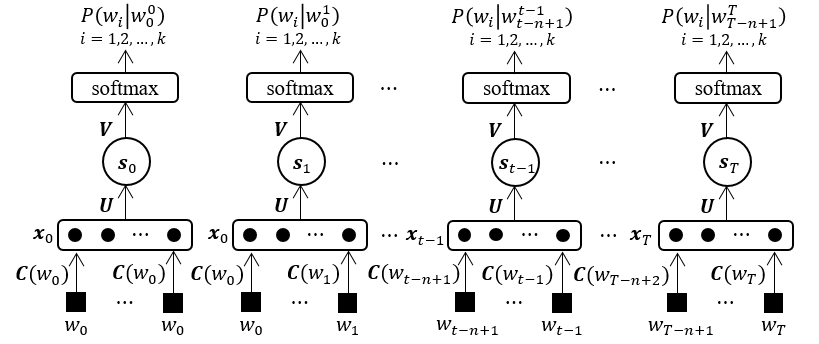
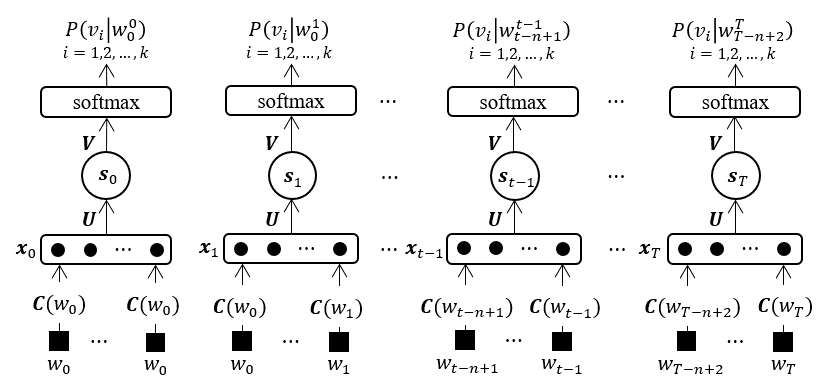
update

diff --git a/css/main.css b/css/main.css
@@ -115,3 +115,8 @@ table tr th :first-child, table tr td :first-child {
 table tr th :last-child, table tr td :last-child {
     margin: 0;
 }
+
+.MathJax_Display {
+    font-size: 18px;
+    text-align: center;
+}

diff --git a/_posts/2017-01-01-neural-network-language-models.md b/_posts/2017-01-01-neural-network-language-models.md
@@ -4,30 +4,30 @@ title: Neural network languge modeling
 abstract: Different architectures of neural network language models are decribed in this post, including feedforward neural network language models, recurrent neural network models and long short term memory ones. Variants of these nerual network language models will also be discussed, like using different activation functions, with or without direct connections between input and output layers and adopting bias terms or not. General issues about training and testing neural network language models are also included in this post.
 ---
 
-> *The source code for the neural network language models described in this post can be found [here](https://github.com/dengliangshi/pynnlms).*
+> *The source code for the neural network language models described in this post are implemented using both [python](https://github.com/dengliangshi/pynnlms) and [C++](https://github.com/dengliangshi/cnnlms).*
 
 ### 1. INTRODUCTION
-Generally, well designed language model (LM) makes a critical difference in various natural language processing (NLP) tasks, including speech recognition, machine translation, semantic extraction and etc. Language modeling, therefore, has been the research focus in NLP field all the time, and a large number of sound research results have been published for decades. N-gram based language modeling, a non-paramtric approach, is used to be state of the art, but now a paramtric approach - neural network language modeling is considered to show the best performance, and become the most commonly used language modeling technique.
+Generally, well designed language model makes a critical difference in various natural language processing (NLP) tasks, including speech recognition, machine translation, semantic extraction and etc. Language modeling (LM), therefore, has been the research focus in NLP field all the time, and a large number of sound research results have been published for decades. N-gram based language modeling, a non-paramtric approach, is used to be state of the art, but now a paramtric approach - neural network language modeling (NNLM) is considered to show the best performance, and become the most commonly used LM technique in multiple NLP tasks.
 
-Although some previous attempts, details on which are provided by [Schwenk (2007)](http://wiki.inf.ed.ac.uk/twiki/pub/CSTR/ListenSemester2_2009_10/sdarticle.pdf), have been made to apply artificial neural network into language modeling, neural network language modeling began to attract researches' attention only after [Bengio et al. (2001, 2003)](http://www.jmlr.org/papers/volume3/bengio03a/bengio03a.pdf), and neural network language models did not show prominent advantage over other language models until Mikolov investigated recurrent neural network for language modeling (Mikolov et al., [2010](http://isca-speech.org/archive/archive_papers/interspeech_2010/i10_1045.pdf), [2011](http://www.mirlab.org/conference_papers/International_Conference/ICASSP%202011/pdfs/0005528.pdf); Mikolov, [2012](http://www.fit.vutbr.cz/~imikolov/rnnlm/thesis.pdf)). After more than a decade's research, there are numerous imporvements, marginal or critical, have been proposed over NNLMs.
+Although some previous attempts, details on which are provided by [Schwenk (2007)](http://wiki.inf.ed.ac.uk/twiki/pub/CSTR/ListenSemester2_2009_10/sdarticle.pdf), had been made to introduce artificial neural network (ANN) into LM, NNLM began to attract researches' attention only after [Bengio et al. (2001, 2003)](http://www.jmlr.org/papers/volume3/bengio03a/bengio03a.pdf), and did not show prominent advantage over other techniques of NNLM until recurrent neural network (RNN) was investigated for LM (Mikolov et al., [2010](http://isca-speech.org/archive/archive_papers/interspeech_2010/i10_1045.pdf), [2011](http://www.mirlab.org/conference_papers/International_Conference/ICASSP%202011/pdfs/0005528.pdf)). After more than a decade's research, there are numerous imporvements, marginal or critical, over basic NNLM have been proposed. In this post, the basic neural network language models will be described, and the improvements will be introduced in following posts.
 
 #### 2. NEURAL NETWORK LANGUAGE MODELS, NNLMs
 The goal of statistical language models is to estimate the probability of a word sequence $w_1w_2...w_T$ in a natural language, and the probability can be represented by the production of the conditional probability of each word given all the previous ones:
 
 $$
-P(w_{1}^{T+1})\;=\;\prod^{T+1}_{t=1}P(w_t{\mid}w_{0}^{t-1})
+P(w_{1}^{T})\;=\;\prod^{T}_{t=1}P(w_t{\mid}w_{1}^{t-1})
 $$
 
-where, $w_{i}^{j}\;=\;w_iw_{i+1}\dots{w_{j-1}w_j}$, $w_0$ and $w_{T+1}$ stand for the start and end marks of word sequence. This chain rule is established on the assumption that the word in a sequence only depend on its prvious context, and it is the fundation of statistical language modeling. Nevertheless, this is not always the case in natural languages. NNLM is a kind of statistical language modeling, so it is also termed as neural probabilistic lanuage modeling or neural statistical lanuage modeling, and the objective of NNLM is to learn the conditional probability function of words. According to the adopted artificial neural network, neural network language model can be classified as: feed-forward, recurrent and LSTM neural network language models, the basic version of which will be introduced next.
+where, $w_{i}^{j}\;=\;w_iw_{i+1}\dots{w_{j-1}w_j}$. This chain rule is established on the assumption that the word in a sequence only depend on its prvious context, and forms fundation of all statistical language modeling. NNLM is a kind of statistical language modeling, so it is also termed as neural probabilistic lanuage modeling or neural statistical lanuage modeling, and the objective of NNLM is to learn the conditional probability function of words. According to the adopted artificial neural network, neural network language model can be classified as: feed-forward neural network language model (FNNLM), recurrent neural network language model (RNNLM) and long short term memory (LSTM) recurrent neural network language model (LSTM-RNNLM).
 
 #### 2.1. Feedforward Neural Network Language Model, FNNLM
-Feed-forward neural network language models (FNNLMs) aim at evaluating the conditional probabilty $P(w_t{\mid}w_{0}^{t-1})$, but, for lack of an effective representation of history context, the idea of n-gram modeling is introduced that words in a word sequence more statistically depend on the words closer to them, and only the $(n-1)$ direct predecessor words are condsidered when evaluationg the conditional probability, this is:
+As metioned above, the objective of FNNLM is to evaluate the conditional probability $P(w_t{\mid}w_{1}^{t-1})$, but FNNLM lacks of an effective way to represent history context. Hence, the idea of n-gram model is adopted in FNNLM that words in a word sequence more statistically depend on the words closer to them, and only the $n-1$ direct predecessor words are condsidered when evaluating the conditional probability, this is:
 
 $$
-P(w_t{\mid}w_{0}^{t-1})\;\approx\;P(w_t{\mid}w_{t-n+1}^{t-1})
+P(w_t{\mid}w_{1}^{t-1})\;\approx\;P(w_t{\mid}w_{t-n+1}^{t-1})
 $$
 
-The architecture of the original feedforward neural network language model (FNNLM) in [Bengio et al. (2003)](http://www.jmlr.org/papers/volume3/bengio03a/bengio03a.pdf) is showed in Figure 1. In Bengio's model, a vocabulary is pre-built from a training data set, and each word in this vocabulary is assigned with a unique index. To predict the conditional probabiltiy of word $w_t$, its direct previous words $w_{t-n+1},...,w_{t-1}$ are projected linearly into feature vectors using a shared matrix $C\in{\mathbb{R}^{k\times{m}}}$ according to their index in vocabulary, where $k$ is the size of the vocabulary and $m$ is the feature vectors' size. In fact, each row of projection maxtrix $C$ is a feature vector of a word. The input $x\in\mathbb{R}^{n_i}$ of FNNLM is formed by concatenating the feacture vectors of words $w_{t-n+1},...,w_{t-1}$, where $n_i=m\times(n-1)$ is the size of FNNLM's input layer. The feedforward neural network model can be generally repesented as:
+The architecture of the original FNNLM in [Bengio et al. (2003)](http://www.jmlr.org/papers/volume3/bengio03a/bengio03a.pdf) is showed in Figure 1, and $w_0$, $w_{T+1}$ are start and end marks of word sequence respectively. In this model, a vocabulary is pre-built from a training data set, and each word in this vocabulary is assigned with a unique index. To predict the conditional probabiltiy of word $w_t$, its direct previous words $w_{t-n+1},...,w_{t-1}$ are projected linearly into feature vectors using a shared matrix $C\in{\mathbb{R}^{k\times{m}}}$ according to their index in vocabulary, where $k$ is the size of the vocabulary and $m$ is the feature vectors' size. In fact, each row of projection maxtrix $C$ is a feature vector of a word. The input $x\in\mathbb{R}^{n_i}$ of FNNLM is formed by concatenating the feacture vectors of words $w_{t-n+1},...,w_{t-1}$, where $n_i=m\times(n-1)$ is the size of FNNLM's input layer. The feedforward neural network model can be generally repesented as:
 
 $$
 y\;=\;V\cdot{f(U\cdot{x}\;+b)}\;+\;M\cdot{x}\;+\;d
@@ -38,7 +38,7 @@ Where, $U\in\mathbb{R}^{n_h\times{n_i}}$,  $V\in\mathbb{R}^{n_o\times{n_h}}$ are
 The $i$-th element of output vector $y$ is the unnormalized coditional probability for the word with index $i$ in vocabulary. In order to guarantee all the output probailities positive and summing to 1, a softmax layer is always adopted following the output layer of feedforward nerual network:
 
 $$
-P(w_{i}{\mid}w_{0}^{t-1})\;\approx\;\frac{e^{y(w_{i},w_{t-n+1}^{t-1})}}{\sum_{j=1}^{k}e^{y(w_{j},w_{t-n+1}^{t-1})}}, i = 1, 2, ..., k
+P(w_{i}{\mid}w_{1}^{t-1})\;\approx\;\frac{e^{y(w_{i},w_{t-n+1}^{t-1})}}{\sum_{j=1}^{k}e^{y(w_{j},w_{t-n+1}^{t-1})}}, i = 1, 2, ..., k
 $$
 
 where $y(w_i,w_{t-n+1}^{t-1})\;(i\;=\; 1, 2, ...,k)$ is the $i$-th element of ouput vector $y$.
@@ -52,20 +52,34 @@ where $y(w_i,w_{t-n+1}^{t-1})\;(i\;=\; 1, 2, ...,k)$ is the $i$-th element of ou
 
 In Bengio's initial work ([Bengio et al., 2001](http://www.iro.umontreal.ca/~lisa/publications2/index.php/attachments/single/74)), two different architetures of FNNLM are proposed: direct and cycling architecture. The direct architeture model has been described above. In cycling architecture model, the input of model is the concatenation of feature vectors of both words in history context and candidate next word. For a given history context $w_{t-n+1}^{t-1}$, each word $w_{i} (i=1, 2, \dots, k)$ in vocabulary will be taken as a candidate next word, and its conditional probability is evaluated by FNNLM. The output of model is a scalar $y(w_{i},w_{t-n+1}^{t-1})$ instead of a vector which is the unnormalized conditioanal probability for the corresponding candidate next word $w_{i}$. Again, the outputs of all candidate next words are normalized using a softmax function. The experimental results in [Bengio et al. (2001)](http://www.iro.umontreal.ca/~lisa/publications2/index.php/attachments/single/74)) show that the direct architecture model is about 2% better than the cycling one, and direct architecture is adopted in all following neural network language models.
 
-Training of neural network language models is achieved by maximizing the log-likelihood of the training data or a regularized criterion, e.g. by adding a weight decay penalty, and the object function is:
+Training of neural network language models is achieved by maximizing the log-likelihood of the training data:
 
 $$
-L = \frac{1}{T+1}\sum_{t=1}^{T+1}\textrm{log}(P(w_t{\mid}w_{0}^{t-1}; \theta))\;+\;R(\theta)
+L = \frac{1}{T}\sum_{t=1}^{T}\textrm{log}(P(w_t{\mid}w_{1}^{t-1}; \theta))\;+\;R(\theta)
 $$
 
-where, $$\theta$$ is the set of model's parameters of NNLMs to be trained, $$R(\theta)$$ is a regularization term. The log-likehood gradient for the outputs $y_i, i=1,2,\dots,k$ of neural network model at step $$t$$ is:
+where, $$\theta$$ is the set of model's parameters of NNLMs to be trained, $$R(\theta)$$ is a regularization term.
+
+The recommended learning algorithm for neural network language models is stochastic gradient descent (SGD) method using backpropagation (BP) algorithm. A commonly used loss function for training neural network language models is corss-entropy:
+
+$$
+E(\hat{o}, o) = -\frac{1}{T}\sum_{t=1}^{T}\hat{o}(t)\textrm{log}(o(t))
+$$
+
+where, $\hat{o}$ is the desired outputs, and $o$ is the outputs of neural network language models, i.e., the outputs of softmax layer. Because the desired outputs $\hat{o}$ are all one-hot vectors, this loss function can be simplified as:
+
+$$
+E(\hat{o}, o) = -\frac{1}{T}\sum_{t=1}^{T}\textrm{log}(o_i(t))=-L
+$$
+
+where, $i$ is the index of target word. The gradient for the outputs $y_i, i=1,2,\dots,k$ of neural network model at step $$t$$ is:
 
 $$
 \begin{align*}
-\frac{\partial{L}}{\partial{y_i}}&=\;\frac{\partial{\textrm{log}(P(w_t{\mid}w_0^{t-1})}}{\partial{y_i}}=\;\frac{\partial{\textrm{log}(e^{y_t}/{\sum_{j=1}^{K}e^{y_j}})}}{\partial{y_i}}\\
-&=\;\frac{\partial{y_t}}{\partial{y_i}}\;+\;\frac{\partial{\textrm{log}(\sum_{j=1}^{K}e^{y_j}})}{\partial{y_i}}\;=\;\frac{\partial{y_t}}{\partial{y_i}}\;+\;\frac{1}{\sum_{j=1}^{K}e^{y_j}}\frac{\partial{\sum_{j=1}^{K}e^{y_j}}}{\partial{y_i}}\\
-&=\;\frac{\partial{y_t}}{\partial{y_i}}\;+\;\frac{1}{\sum_{j=1}^{K}e^{y_j}}\frac{\partial{e^{y_i}}}{\partial{y_i}}\;=\;\frac{\partial{y_t}}{\partial{y_i}}\;-\;\frac{e^{y_i}}{\sum_{j=1}^{K}e^{y_j}}\\
-&=\;\frac{\partial{y_t}}{\partial{y_i}}\;-\;P(w_i{\mid}h_t)
+\frac{\partial{E(\hat{o}, o)}}{\partial{y_i}} &= - \frac{\partial{L}}{\partial{y_i}}=\;-\frac{\partial{\textrm{log}(P(w_t{\mid}w_0^{t-1})}}{\partial{y_i}}=\;-\frac{\partial{\textrm{log}(e^{y_t}/{\sum_{j=1}^{K}e^{y_j}})}}{\partial{y_i}}\\
+&=\;-\frac{\partial{y_t}}{\partial{y_i}}\;-\;\frac{\partial{\textrm{log}(\sum_{j=1}^{K}e^{y_j}})}{\partial{y_i}}\;=\;-\frac{\partial{y_t}}{\partial{y_i}}\;-\;\frac{1}{\sum_{j=1}^{K}e^{y_j}}\frac{\partial{\sum_{j=1}^{K}e^{y_j}}}{\partial{y_i}}\\
+&=\;-\frac{\partial{y_t}}{\partial{y_i}}\;-\;\frac{1}{\sum_{j=1}^{K}e^{y_j}}\frac{\partial{e^{y_i}}}{\partial{y_i}}\;=\;-\frac{\partial{y_t}}{\partial{y_i}}\;+\;\frac{e^{y_i}}{\sum_{j=1}^{K}e^{y_j}}\\
+&=\;-\frac{\partial{y_t}}{\partial{y_i}}\;+\;P(w_i{\mid}h_t)
 \end{align*}
 $$
 
@@ -73,66 +87,38 @@ The log-likehood gradient for all outputs can be represented as:
 
 $$
 \frac{\partial{\textrm{log}(P(w_t{\mid}h_t)}}{\partial{y_i}}\;=\;\left\{\begin{array}{ll}
-1\;-\;P(w_t{\mid}h_t) & i=t\\
-0\;-\;P(w_i{\mid}h_t) & i\neq{t}\\
+-1\;+\;P(w_t{\mid}h_t) & i=t\\
+-0\;+\;P(w_i{\mid}h_t) & i\neq{t}\\
 \end{array} \right.
 $$
 
 then, the log-likehood gradient for parameters set $\theta$ is:
 
 $$
-\frac{\partial{L}}{\partial{\theta}}\;=\;\sum_{i=1}^{k}\frac{\partial{L}}{\partial{y_i}}\frac{\partial{y_i}}{\partial{\theta}}
+\frac{\partial{L}}{\partial{\theta}}\;=\;-\sum_{i=1}^{k}\frac{\partial{L}}{\partial{y_i}}\frac{\partial{y_i}}{\partial{\theta}}
 $$
 
-Stochastic gradient descent (SGD) method is a proper learning algorithm for training neural network language model, and the gradients of errors for parameters $\theta$ are computed using backpropagation (BP) algorithm. The parameters are updated as:
+The parameters are updated as:
 
 $$
-\theta = \theta + \alpha\frac{\partial{L}}{\partial{\theta}} - \beta\theta
+\begin{align*}
+\theta_t &= \theta_{t-1} - \alpha\frac{\partial{E(\hat{o}, o)}}{\partial{\theta}} - \beta\theta_{t-1}\\
+&=\theta_{t-1} + \alpha\frac{\partial{L}}{\partial{\theta}} - \beta\theta_{t-1}
+\end{align*}
 $$
 
 where, $$\alpha$$ is learning rate and $$\beta$$ is regularization parameter.
 
-The performance of neural network language models is usually measured by perflexity (PPL) which corresponds to the cross-entropy between the language model and test data. The perflexity of a word sequence $w_1w_2{\dots}w_T$ is defined as:
+The performance of neural network language models is usually measured by perflexity (PPL) which can be defined as:
 
 $$
-PPL\;=\;\sqrt[T]{\prod^{T}_{i=1}\frac{1}{P(w_{i}{\mid}w_{0}^{i-1})}}\;=\;2^{-\frac{1}{T}\sum^{T}_{i=1}log_2P(w_{i}{\mid}w_{0}^{i-1})}
+PPL\;=\;\sqrt[T]{\prod^{T}_{i=1}\frac{1}{P(w_{i}{\mid}w_{1}^{i-1})}}\;=\;2^{-\frac{1}{T}\sum^{T}_{i=1}log_2P(w_{i}{\mid}w_{1}^{i-1})}
 $$
 
 Perflexity can be defined as the exponential of the average number of bits required to encode the test data using a language model and lower perflexity indicates that the language model is closer to the true model which generates the test data.
 
-Although feed-forward neural network language models had gone out of reachers' sign after recurrent neural network was introduced into neural network language modeling, some results of studies on feed-forward neural network language models are still posted here for completeness. The Brown corpus is adopted here and the  experimental setup is the same as that in [Bengio et al. (2003)](http://www.jmlr.org/papers/volume3/bengio03a/bengio03a.pdf), the first 800000 words (ca01$$\sim$$cj54) were used for training, the following 200000 words (cj55$$\sim$$cm06) for validation and the rest (cn01$$\sim$$cr09) for testing.Figure 3~5 shows the effect of hidden layer's size, feacture vector's dimension and n-gram's order on performance of feed-forward neural network language models：
-
-<div class="row">
-    <div class="col-sm-4">
-        <div class="thumbnail">
-            <img src="/images/nnlms/fnn-h.png">
-            <div class="caption">
-                <p class="text-center">Figure 3. size of hidden layer</p>
-            </div>
-        </div>
-    </div>
-    <div class="col-sm-4">
-        <div class="thumbnail">
-            <img src="/images/nnlms/fnn-m.png">
-            <div class="caption">
-                <p class="text-center">Figure 4. dimension of vectors</p>
-            </div>
-        </div>
-    </div>
-    <div class="col-sm-4">
-        <div class="thumbnail">
-            <img src="/images/nnlms/fnn-n.png">
-            <div class="caption">
-                <p class="text-center">Figure 5. order of n-gram</p>
-            </div>
-        </div>
-    </div>
-</div>
-
-As these results show, all these three factors, especially the order of n-gram, have significant influence on the performance of FNNLM, but the influence decreases as the value of each factor increase for certain corpus.
-
 #### 2.2. Recurrent Neural Network Language Model, RNNLM
-The idea of applying recurrent neural network (RNN) model into LM was proposed much earlier ([Bengio et al., 2003](http://www.jmlr.org/papers/volume3/bengio03a/bengio03a.pdf); [Castro and Prat, 2003](http://www.researchgate.net/profile/Maria_Jose_Castro/publication/221582376_New_Directions_in_Connectionist_Language_Modeling/links/54552fb40cf2bccc490ccacd.pdf)), but fisrt serious attempt to build recurrent nerual network based language model was made by Mikolov et al. ([2010](http://isca-speech.org/archive/archive_papers/interspeech_2010/i10_1045.pdf), [2011](http://www.mirlab.org/conference_papers/International_Conference/ICASSP%202011/pdfs/0005528.pdf)). RNNs are fundamentally different from feedforward architecture in the sense that they not only operate on an input space but also on an internal state space, and the state space enables the representation of sequentially extended dependencies. Therefore, arbitrary length of word sequence can be dealt with using RNNLM, and all previous context can be taken into account when predicting next word. As showed in Figure 2, the representation of words in RNNLM is the same as that of FNNLM, but the input of recurrent neural network at each step is the feature vector of a direct preivous word instead of the concatenation of the $n-1$ previous words' feature vectors and all other previous words are taken into account by the internal state of previous step. At step $t$, recurrent neural network can be described as:
+The idea of applying RNN in LM was proposed much earlier ([Bengio et al., 2003](http://www.jmlr.org/papers/volume3/bengio03a/bengio03a.pdf); [Castro and Prat, 2003](http://www.researchgate.net/profile/Maria_Jose_Castro/publication/221582376_New_Directions_in_Connectionist_Language_Modeling/links/54552fb40cf2bccc490ccacd.pdf)), but the fisrt serious attempt to build a RNNLM was made by Mikolov et al. ([2010](http://isca-speech.org/archive/archive_papers/interspeech_2010/i10_1045.pdf), [2011](http://www.mirlab.org/conference_papers/International_Conference/ICASSP%202011/pdfs/0005528.pdf)). RNNs are fundamentally different from feedforward architecture in the sense that they not only operate on an input space but also on an internal state space, and the state space enables the representation of sequentially extended dependencies. Therefore, arbitrary length of word sequence can be dealt with using RNNLM, and all previous context can be taken into account when predicting next word. As showed in Figure 2, the representation of words in RNNLM is the same as that of FNNLM, but the input of recurrent neural network at each step is the feature vector of a direct preivous word instead of the concatenation of the $n-1$ previous words' feature vectors and all other previous words are taken into account by the internal state of previous step. At step $t$, recurrent neural network can be described as:
 
 $$
 \begin{align*}
@@ -150,7 +136,7 @@ where, weight matrix $$W\in\mathbb{R}^{n_h\times{n_h}}$$. Tand its size of input
     </div>
 </div>
 
-Because of the involvement of previous internal state at each step, back-propagation through time (BPTT) algorithm [Rumelhart et al. (1986)](http://patentimages.storage.googleapis.com/pdfs/US5067164.pdf) is prefered for better performance when training RNNLMs. If data set is treated as a single long word sequence, truncated BPTT shoud be used and [Mikolov (2012)](http://www.fit.vutbr.cz/~imikolov/rnnlm/thesis.pdf)) reports that back-propagating error gradients through 5 steps is enough, at least for small corpus.
+Because of the involvement of previous internal state at each step, back-propagation through time (BPTT) algorithm [Rumelhart et al. (1986)](http://patentimages.storage.googleapis.com/pdfs/US5067164.pdf) is prefered for better performance when training RNNLMs. If data set is treated as a single long word sequence, truncated BPTT shoud be used and [Mikolov (2012)](http://www.fit.vutbr.cz/~imikolov/rnnlm/thesis.pdf)) reports that back-propagating error gradients through 5 steps is enough, at least for small corpus. If data set is dealt with sentence by sentence, the error gradient can be back-propagated trough each whole sentence without any truncation.
 
 #### 2.3 LSTM Neural Network Language Model, LSTM-NNLM
 Although RNNLM can deal with all of the predecessor words to predict next word in a word sequence, but it is quit difficult to train over long term dependencies because of the vanishing problem (S. Hochreiter and J. Schmidhuber, 1997). This problem can be addressed by using Long-Short Term Memoery (LSTM) neural network, and LSTM neural network was introduced to LM by [Sundermeyer et al. (2013)](https://core.ac.uk/download/pdf/36583567.pdf). LSTM-NNLM is almost the same as RNNLM, the only difference is the architecture of neural network. LSTM neural network was proposed by Schmidhuber (1997) and was refined and popularized in following works (Gers and Schmidhuber, 2000; [Cho et al. 2014](http://mirror.aclweb.org/emnlp2014/papers/pdf/EMNLP2014179.pdf)). The general architecture of LSTM neural network is:
@@ -159,9 +145,9 @@ $$
 \begin{align*}
 &i_t\;=\;\sigma(U_ix_t\;+\;W_{i}s_{t-1}\;+\;V_{i}c_{t-1}\;+\;b_i)\\
 &f_t\;=\;\sigma(U_{f}x_t\;+\;W_{f}s_{t-1}\;+\;V_{f}c_{t-1}\;+\;b_f)\\
-&o_t\;=\;\sigma(U_{o}x_t\;+\;W_{o}s_{t-1}\;+\;V_{o}c_{t-1}\;+\;b_o)\\
 &g_t\;=\;f(Ux_t\;+\;Ws_{t-1}\;+\;Vc_{t-1}\;+\;b)\\
 &c_t\;=\;f_t\;*\;c_{t-1}\;+\;i_t\;*\;g_t\\
+&o_t\;=\;\sigma(U_{o}x_t\;+\;W_{o}s_{t-1}\;+\;V_{o}c_{t}\;+\;b_o)\\
 &s_t\;=\;o_t\;*\;f(c_t)\\
 &y_t\;=\;Vs_t + Mx_t + d
 \end{align*}
@@ -169,38 +155,17 @@ $$
 
 Where, $$i_t\in\mathbb{R}^{n_h}$$, $$f_t\in\mathbb{R}^{n_h}$$, $$o_t\in\mathbb{R}^{n_h}$$ are input gate, forget gate and output gate, respectively. $$c_t\in\mathbb{R}^{n_h}$$ is previous state of nodes. $$U_i$$, $$U_f$$, $$U_o$$, $$U\in\mathbb{R}^{n_h\times{n_i}}$$, $$W_i$$, $$W_f$$, $$W_o$$, $$W\in\mathbb{R}^{n_h\times{n_i}}$$, $$V_i$$, $$V_f$$, $$V_o$$, $$V\in\mathbb{R}^{n_h\times{n_i}}$$ are all weight matrixes. $$b_i$$, $$b_f$$, $$b_o$$, $$b\in\mathbb{R}^{n_h}$$, and $$d\in\mathbb{R}^{n_o}$$ are bias vectors. $$f(\cdot)$$ is the activation function in hidden layer and $$\sigma(\cdot)$$ is the activation function for gates.
 
-The same studies as on RNNLM are also performed on LSTM-NNLM, and the results are showed in Figure 8~9:
-
-<div class="row">
-    <div class="col-sm-6">
-        <div class="thumbnail">
-            <img src="/images/nnlms/lstm-h.png">
-            <div class="caption">
-                <p class="text-center">Figure 8. size of hidden layer</p>
-            </div>
-        </div>
-    </div>
-    <div class="col-sm-6">
-        <div class="thumbnail">
-            <img src="/images/nnlms/lstm-m.png">
-            <div class="caption">
-                <p class="text-center">Figure 9. dimension of vectors</p>
-            </div>
-        </div>
-    </div>
-</div>
-
 #### 3. COMPARISON OF NNLMS WITH DIFFERENT ARCHITECTURES
-Comparision among different neural network language models have already been made on both small and large corpus ([Mikolov, 2012](http://www.fit.vutbr.cz/~imikolov/rnnlm/thesis.pdf); [Sundermeyer et al., 2013](https://core.ac.uk/download/pdf/36583567.pdf)). The results show that, generally, RNNLM outperform FNNLM and the best performance is achieved using LSTM-NNLM. However, the neural network language models in these researches are optimized using various techniques, even combined with other kind language models, let alone the different experimental setups and implementation details, which make the comparison results failed to illustrate the fundamental discrepancy in the performance of neural network language models. In order to take the effect of data set's size into account, both Brown Corpus and One Billion Word Benchmark (OBWB) ([Chelba et al., 2014](http://m.isca-speech.org/archive/archive_papers/interspeech_2014/i14_2635.pdf)) are used for this studies. The final reuslts are showed in Table 1 :
+Comparision among different neural network language models have already been made on both small and large corpus ([Mikolov, 2012](http://www.fit.vutbr.cz/~imikolov/rnnlm/thesis.pdf); [Sundermeyer et al., 2013](https://core.ac.uk/download/pdf/36583567.pdf)). The results show that, generally, RNNLM outperform FNNLM and the best performance is achieved using LSTM-NNLM. However, the neural network language models in these researches are optimized using various techniques, even combined with other kind language models, let alone the different experimental setups and implementation details, which make the comparison results failed to illustrate the fundamental discrepancy in the performance of neural network language models. Here, comparative experiment on neural network language models with different architecture are repeated on Brown Corpus. The models in these experiments were all implemented plainly, and only a class-based speed-up technique was used which will be introduced later. Experiments were performed on the Brown Corpus, and the experimental setup for Brown corpus is the same as in [Bengio et al. (2003)](http://www.jmlr.org/papers/volume3/bengio03a/bengio03a.pdf), the first 800000 words (ca01$\sim$cj54) were used for training, the following 200000 words (cj55$\sim$cm06) for validation and the rest (cn01$\sim$cr09) for test.
 
 <p style="text-align: center;">Table 1. Comparison of different NNLMs</p>
 
-LM     | $$n$$ | $$m$$ | $$n_h$$ | Direct | Bias | Brown  | OBWB 
--------|:-----:|:-----:|:-------:|:------:|:----:|:------:|:-----:
-FNNLM  |   5   |  100  |   200   |   No   |  No  | 214.91 |  -
-RNNLM  |   -   |  100  |   200   |   No   |  No  |   -    |  -
-LSTMLM |   -   |  100  |   200   |   No   |  No  | 228.91 |  -
-LSTMLM |   -   |  100  |   200   |   Yes  |  No  |   -    |  -
-LSTMLM |   -   |  100  |   200   |   No   |  Yes |   -    |  -
+Models | $$n$$ | $$m$$ | $$n_h$$ | Direct | Bias | Brown  
+:-----:|:-----:|:-----:|:-------:|:------:|:----:|:------:
+FNNLM  |   5   |  100  |   200   |   No   |  No  | 223.85 
+RNNLM  |   -   |  100  |   200   |   No   |  No  | 221.10 
+LSTMLM |   -   |  100  |   200   |   No   |  No  | 237.93 
+LSTMLM |   -   |  100  |   200   |   Yes  |  No  | 242.54 
+LSTMLM |   -   |  100  |   200   |   No   |  Yes | 237.18 
 
-The NNLMs performed in above experiments are all without direct connections from input layer to output layer and biases in both hidden and output layer. [Bengio et al. (2003)](http://www.jmlr.org/papers/volume3/bengio03a/bengio03a.pdf) suggests that better generalization and lower perplexity with no direct connections but longer training. A reasonable interpretation is that direct input-to-output connections provide a bit more capacity and faster learning of the "linear" part of mapping from word features to log-probabilities. On the other hand, without those connections the hidden units form a tight bottleneck which might force better generalization. For the biases, [Mikolov (2012)](http://www.fit.vutbr.cz/~imikolov/rnnlm/thesis.pdf) reported that no significant improvement of performance was gained with biases. So no direct connections and biases will be used in the following experiments neither.
+The experiment results are showed in Table 1 which suggest that, on a small corpus likes Brown Corpus, RNNLM and LSTM-RNN did not show a remarkable advantage over FNNLM, instead a bit higher perplexity was achieved by LSTM-RNNLM. Maybe more data is needed to train RNNLM and LSTM-RNN because more previous context are taken into account by RNNLM and LSTM-RNNLM when predicting next word. LSTM-RNNLM with bias terms or direct connections was also evaluated. With direct connections, a slightly higher perpleixty but shorter training time was obtained. An explanation given by [Bengio et al. (2003)](http://www.jmlr.org/papers/volume3/bengio03a/bengio03a.pdf) is that direct connections provide a bit more capacity and faster learning of the "linear" part of mapping from inputs to outputs but impose a negative effect on generalization. For the bias terms, no significant improvement of performance was gained which was also observed on RNNLM by [Mikolov, 2012](http://www.fit.vutbr.cz/~imikolov/rnnlm/thesis.pdf).

diff --git a/_posts/2017-03-16-some-tips-for-building-neural-network-language-models.md b/_posts/2017-03-16-some-tips-for-building-neural-network-language-models.md
@@ -52,5 +52,3 @@ the conditional probability of word $$w_t$$ is excluded.
 
 #### 5. OTHERS
 There are some programing tricks for building neural network language models with codes. First, using one dimension arrays for weight matrix will be much faster than using two dimension arrays; Second, allocate variables with enough memeory before training or test, and avoid allocate or reallocate memory during training or test.
-
-<img src="/images/signature.png" align="right">
